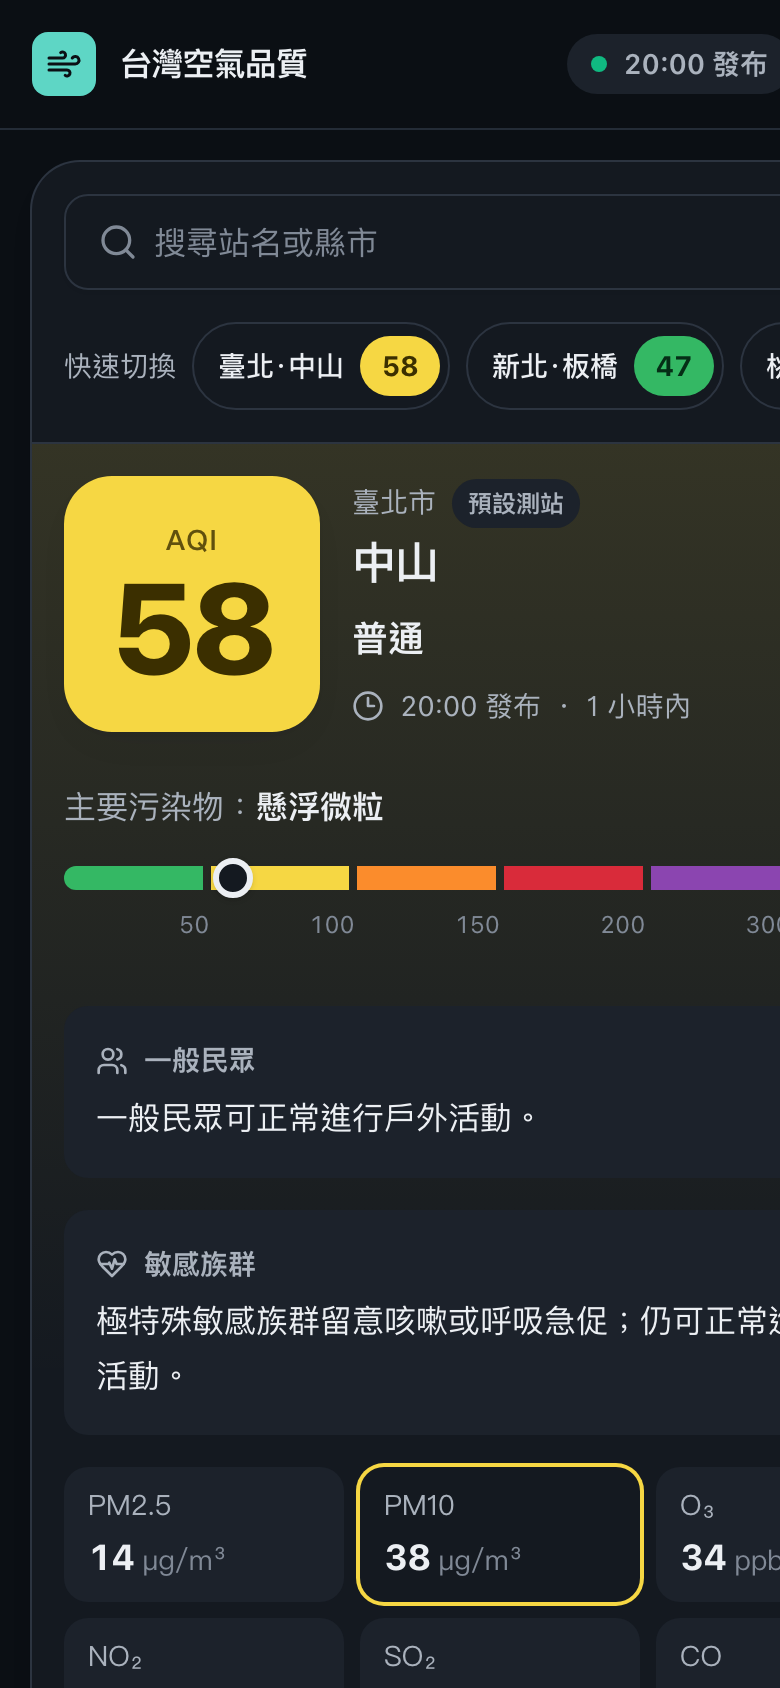
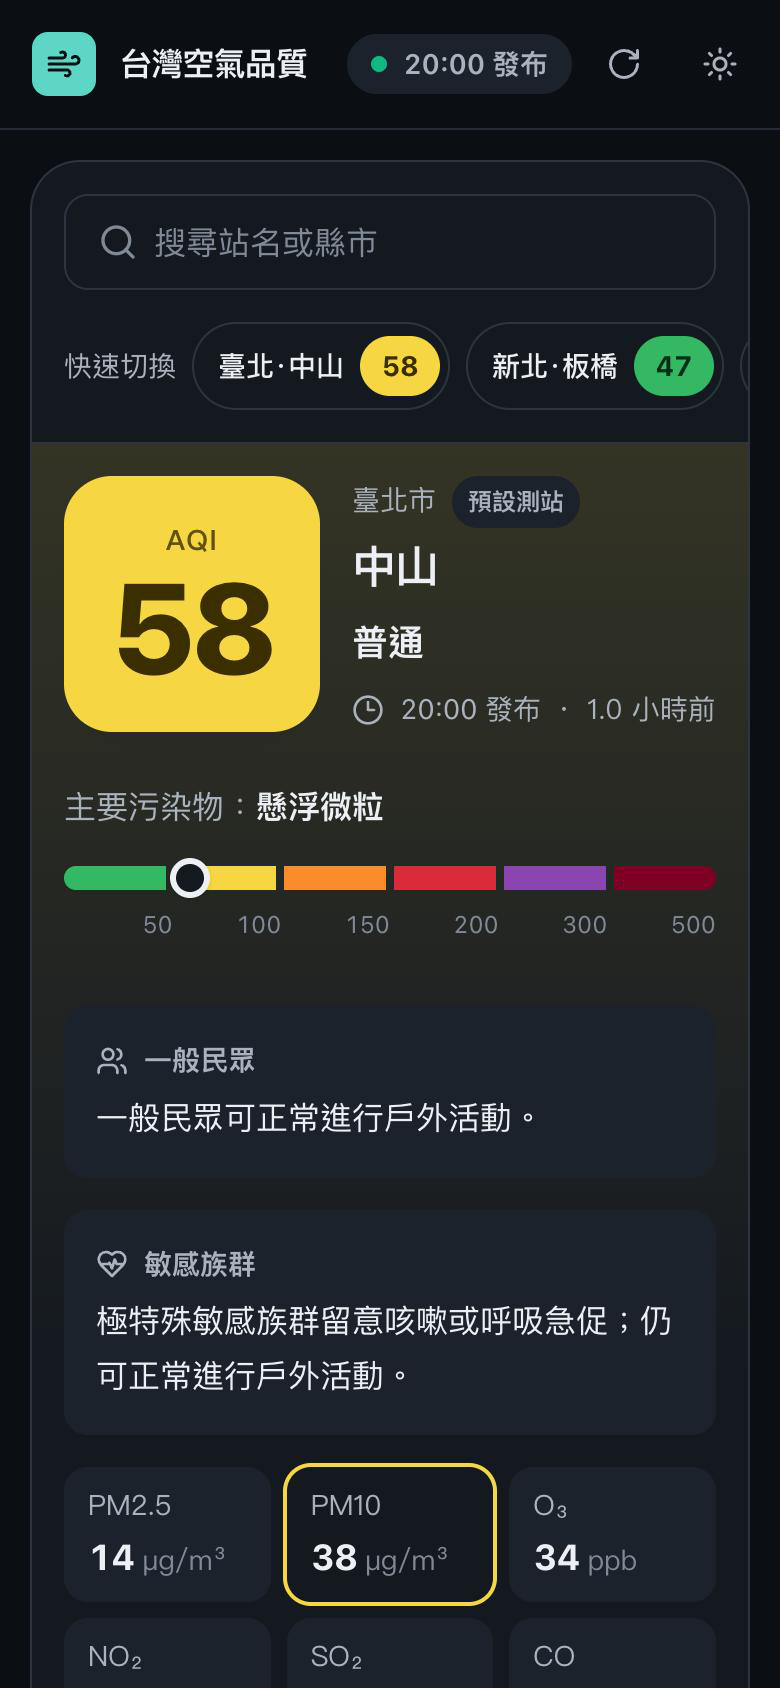
fix: retake mobile screenshots at a true 390px and tidy 320px layout
The earlier mobile captures came from headless Chrome, which enforces a
500px minimum window and crops the screenshot, so the page looked like it
overflowed. Measured with device emulation, scrollWidth equals the
viewport at 320/375/390/430. Retake both 390px themes that way.

Also: freshness pill shows only the time below 380px so the brand fits,
the default-station badge no longer wraps, and pollutant tiles use two
columns below 380px.

diff --git a/src/components/StationHero.tsx b/src/components/StationHero.tsx
@@ -67,7 +67,7 @@ export function StationHero({ dataset, station, isDefault, picker }: StationHero
             <div className="min-w-0">
               <p className="text-sm text-muted">
                 {station.county}
-                {isDefault && <span className="ml-2 rounded-full bg-sunken px-2 py-1 text-xs font-semibold text-muted">預設測站</span>}
+                {isDefault && <span className="ml-2 inline-block whitespace-nowrap rounded-full bg-sunken px-2 py-1 text-xs font-semibold text-muted">預設測站</span>}
               </p>
               <h1 id="hero-heading" className="mt-1 truncate text-xl font-bold tracking-tight sm:text-2xl">
                 {station.stationName}
@@ -110,7 +110,7 @@ export function StationHero({ dataset, station, isDefault, picker }: StationHero
             </div>
           )}
 
-          <dl className="grid grid-cols-3 gap-2" aria-label={canAdvise ? '目前污染物濃度' : '快取污染物濃度'}>
+          <dl className="grid grid-cols-2 gap-2 min-[380px]:grid-cols-3" aria-label={canAdvise ? '目前污染物濃度' : '快取污染物濃度'}>
             {POLLUTANTS.map(([key, label, unit, digits]) => {
               const isMain = canAdvise && mainKey === key;
               return (

diff --git a/src/components/SiteHeader.tsx b/src/components/SiteHeader.tsx
@@ -56,7 +56,7 @@ function FreshnessPill({ dataset }: { dataset: AqiDataset }) {
   const label = !official
     ? '展示資料'
     : fresh
-      ? `${formatPublishLabel(summary.newestPublishTimeISO)} 發布`
+      ? formatPublishLabel(summary.newestPublishTimeISO)
       : `已過期 ${formatHours(summary.hoursSinceUpdate).replace("前", "")}`;
 
   return (
@@ -67,7 +67,10 @@ function FreshnessPill({ dataset }: { dataset: AqiDataset }) {
       title={fresh ? `最新測站資料 ${formatHours(summary.hoursSinceUpdate)}` : '沒有 3 小時內的有效測站資料'}
     >
       <span className={`h-2 w-2 rounded-full ${fresh ? 'bg-emerald-500' : 'bg-amber-500'}`} aria-hidden="true" />
-      <span className="tabular">{label}</span>
+      <span className="tabular">
+        {label}
+        {fresh && <span className="hidden min-[380px]:inline"> 發布</span>}
+      </span>
     </span>
   );
 }

diff --git a/docs/visual-audit.md b/docs/visual-audit.md
@@ -33,5 +33,24 @@
 截圖都在 `docs/screenshots/`：
 
 - `focal-desktop-light.png`、`focal-desktop-dark.png`：1440×900，DPR 1。
-- `focal-mobile-light.png`、`focal-mobile-dark.png`：390×844，DPR 2，所以實際像素是 780×1688。
+- `focal-mobile-light.png`、`focal-mobile-dark.png`：390×844，DPR 2，所以實際像素是 780×1688。改用內建瀏覽器的裝置模擬截圖，原尺寸、沒有縮圖（原因見下節）。
 - `focal-desktop-light-squint.png`、`focal-mobile-light-squint.png`：首屏模糊 8 CSS px 的版本（手機圖因為 DPR 2，以 16 實際像素模糊）。模糊後只剩彩色 AQI 方塊是主區塊。
+
+## 手機寬度修正（審查回饋）
+
+- **問題**：第一版的手機截圖看起來整頁往右溢出。
+- **原因**：headless Chrome 的視窗最小寬度是 500px。指定 `--window-size=390,844` 時，頁面實際是以 500px 排版（實測 `innerWidth=500`），再把截圖裁成 390px，所以截圖是錯的。
+- **實際頁面**：以裝置模擬實測，四種寬度都沒有水平捲動：
+
+| 寬度 | `document.documentElement.scrollWidth` |
+|---|---|
+| 320 | 320 |
+| 375 | 375 |
+| 390 | 390 |
+| 430 | 430 |
+
+- **順手修了 320px 的擁擠問題**：
+  - 頁首的時效標示在 380px 以下只顯示時間，品牌名稱就不會被截斷。
+  - 「預設測站」標籤改成不換行。
+  - 污染物卡片在 380px 以下改成兩欄。
+- 手機截圖已改用內建瀏覽器重拍。
